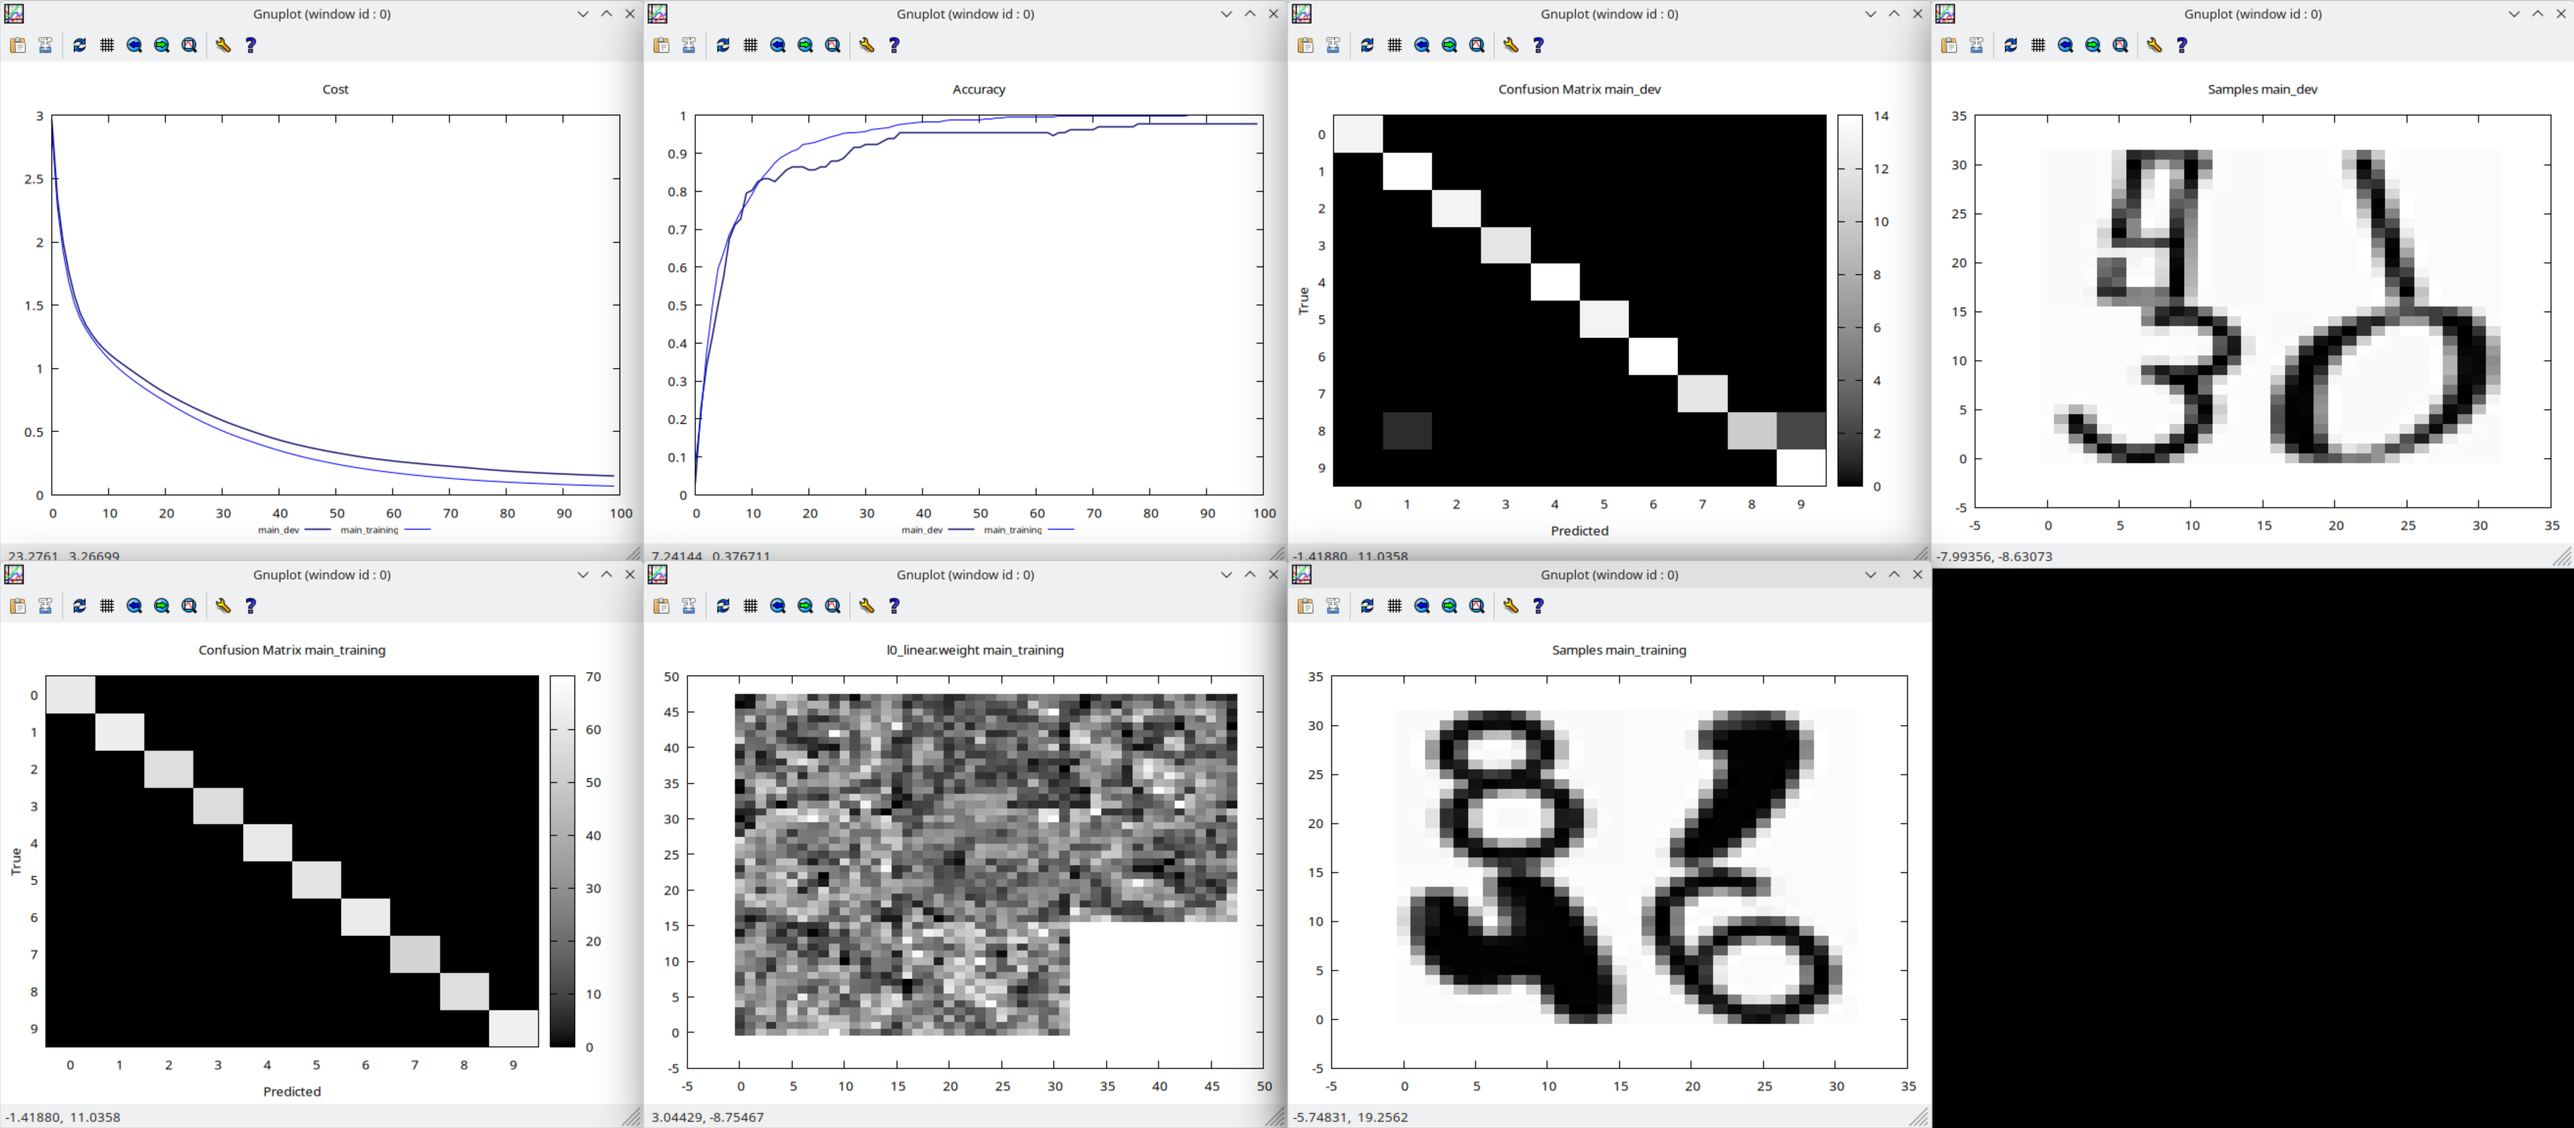
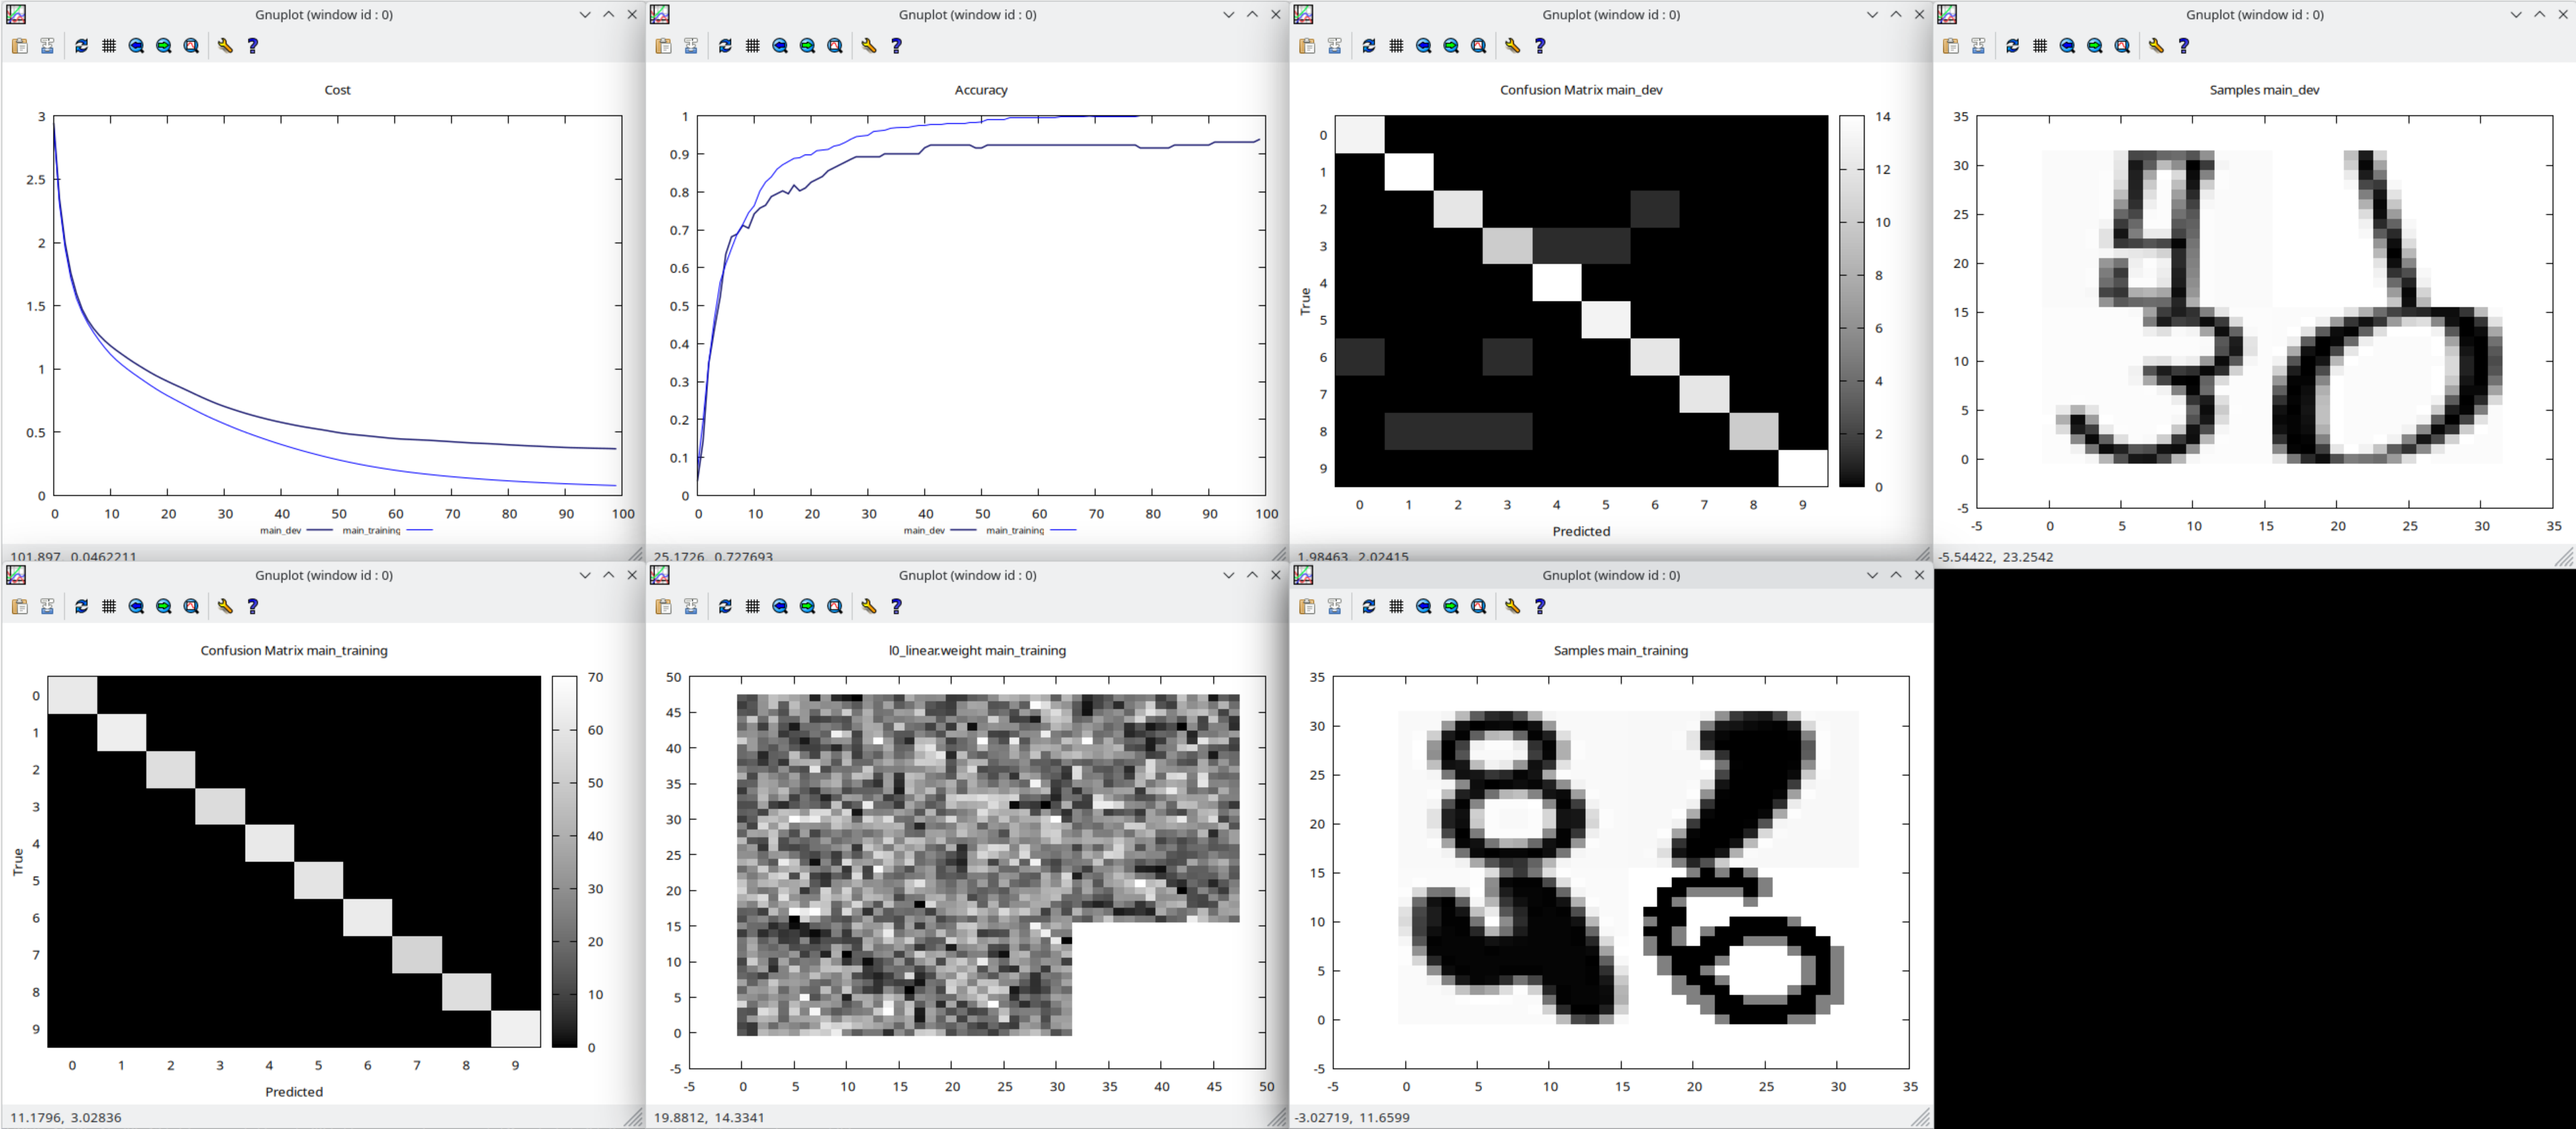
feat: Use Vips images in the Torch pipeline
- Corrected duplicated flags in experiment A and B commands
- Removed unnecessary parameters like --track-layer and --display-samples
- Added --training-times=5 to experiment B for randomness measurement
- Revised experiment C command to include multiple --experiment flags
- Updated experiment A description to note 94% dev accuracy and 6% variance

diff --git a/lib/ruby_neural_nets/data_loaders/torch.x86_64-linux.rb b/lib/ruby_neural_nets/data_loaders/torch.x86_64-linux.rb
@@ -5,14 +5,12 @@ require 'ruby_neural_nets/datasets/cache_memory'
 require 'ruby_neural_nets/datasets/epoch_shuffler'
 require 'ruby_neural_nets/datasets/labeled_torch_images'
 require 'ruby_neural_nets/datasets/minibatch_torch'
-require 'ruby_neural_nets/torchvision/transforms/vips_to_image_magick'
-require 'ruby_neural_nets/torchvision/transforms/image_magick_trim'
-require 'ruby_neural_nets/torchvision/transforms/image_magick_resize'
-require 'ruby_neural_nets/torchvision/transforms/image_magick_grayscale'
-require 'ruby_neural_nets/torchvision/transforms/image_magick_minmax_normalize'
-require 'ruby_neural_nets/torchvision/transforms/image_magick_adaptive_invert'
-require 'ruby_neural_nets/torchvision/transforms/image_magick_to_tensor'
-require 'ruby_neural_nets/torchvision/transforms/remove_alpha'
+require 'ruby_neural_nets/torchvision/transforms/vips_trim'
+require 'ruby_neural_nets/torchvision/transforms/vips_resize'
+require 'ruby_neural_nets/torchvision/transforms/vips_grayscale'
+require 'ruby_neural_nets/torchvision/transforms/vips_minmax_normalize'
+require 'ruby_neural_nets/torchvision/transforms/vips_adaptive_invert'
+require 'ruby_neural_nets/torchvision/transforms/vips_remove_alpha'
 require 'ruby_neural_nets/torchvision/transforms/flatten'
 require 'ruby_neural_nets/torchvision/transforms/to_double'
 
@@ -118,22 +116,16 @@ module RubyNeuralNets
       # * Array: Array of TorchVision transforms for preprocessing
       def preprocessing_transforms
         transforms = [
-          RubyNeuralNets::TorchVision::Transforms::VipsToImageMagick.new
+          RubyNeuralNets::TorchVision::Transforms::VipsRemoveAlpha.new
         ]
-        # Apply trim if specified (works on ImageMagick images)
-        transforms << RubyNeuralNets::TorchVision::Transforms::ImageMagickTrim.new if @trim
-        # Apply resize (works on ImageMagick images, after trim)
-        transforms << RubyNeuralNets::TorchVision::Transforms::ImageMagickResize.new(@resize)
-        # Apply grayscale if specified (works on ImageMagick images)
-        transforms << RubyNeuralNets::TorchVision::Transforms::ImageMagickGrayscale.new if @grayscale
-        # Apply min-max normalization if specified (works on ImageMagick images)
-        transforms << RubyNeuralNets::TorchVision::Transforms::ImageMagickMinmaxNormalize.new if @minmax_normalize
-        # Apply adaptive invert if specified (works on ImageMagick images)
-        transforms << RubyNeuralNets::TorchVision::Transforms::ImageMagickAdaptiveInvert.new if @adaptive_invert
+        transforms << RubyNeuralNets::TorchVision::Transforms::VipsTrim.new if @trim
+        transforms << RubyNeuralNets::TorchVision::Transforms::VipsResize.new(@resize)
+        transforms << RubyNeuralNets::TorchVision::Transforms::VipsGrayscale.new if @grayscale
+        transforms << RubyNeuralNets::TorchVision::Transforms::VipsMinmaxNormalize.new if @minmax_normalize
+        transforms << RubyNeuralNets::TorchVision::Transforms::VipsAdaptiveInvert.new if @adaptive_invert
         # Apply tensor-level transforms
         transforms + [
-          RubyNeuralNets::TorchVision::Transforms::ImageMagickToTensor.new,
-          RubyNeuralNets::TorchVision::Transforms::RemoveAlpha.new,
+          ::TorchVision::Transforms::ToTensor.new,
           RubyNeuralNets::TorchVision::Transforms::Flatten.new,
           RubyNeuralNets::TorchVision::Transforms::ToDouble.new,
         ]

diff --git a/lib/ruby_neural_nets/transform_helpers/vips.rb b/lib/ruby_neural_nets/transform_helpers/vips.rb
@@ -12,7 +12,7 @@ module RubyNeuralNets
       # * Vips::Image: Resized image or original if no resize needed
       def self.resize(image, target_width, target_height)
         if image.width != target_width || image.height != target_height
-          image.resize(target_width.to_f / image.width, vscale: target_height.to_f / image.height)
+          image.resize(target_width.to_f / image.width, vscale: target_height.to_f / image.height, kernel: :mitchell)
         else
           image
         end
@@ -38,7 +38,7 @@ module RubyNeuralNets
         # Store original aspect ratio
         original_aspect_ratio = image.width.to_f / image.height
         # Find bounding box of non-background pixels
-        left, top, width, height = image.find_trim(background: image.getpoint(0, 0))
+        left, top, width, height = image.find_trim(background: image.getpoint(0, 0)[0..2])
 
         # Calculate new dimensions to restore aspect ratio
         trimmed_width = width
@@ -127,9 +127,8 @@ module RubyNeuralNets
       def self.adaptive_invert(image)
         # Get top left pixel value (assuming RGB, take average)
         top_left = image.getpoint(0, 0)
-        intensity = top_left.inject(:+).to_f / top_left.size
         # Invert if intensity is in lower half range (normalized 0-1)
-        intensity < 128 ? -image + 255 : image
+        top_left.inject(:+).to_f / top_left.size < 128 ? (-image + 255).scaleimage : image
       end
 
       # Apply min-max normalization to the image
@@ -148,7 +147,18 @@ module RubyNeuralNets
             # If all pixels are the same, set to 127.5 (midpoint)
             max_val > min_val ? ((band - min_val) * 255) / (max_val - min_val) : band * 0 + 127
           end
-        )
+        ).scaleimage
+      end
+
+      # Remove alpha channel from Vips image
+      #
+      # Parameters::
+      # * *image* (Vips::Image): Input image that may have alpha channel
+      # Result::
+      # * Vips::Image: Image with alpha channel removed if present (4 bands -> 3 bands)
+      def self.remove_alpha(image)
+        # Remove alpha channel if present (4 bands -> 3 bands)
+        image.bands == 4 ? image.extract_band(0, n: 3) : image
       end
 
     end

diff --git a/lib/ruby_neural_nets/datasets/labeled_torch_images.rb b/lib/ruby_neural_nets/datasets/labeled_torch_images.rb
@@ -1,6 +1,8 @@
 require 'ruby_neural_nets/datasets/file_to_vips'
 require 'ruby_neural_nets/datasets/wrapper'
 require 'ruby_neural_nets/torch/sample_folder_dataset'
+require 'ruby_neural_nets/torchvision/transforms/image_magick_grayscale'
+require 'ruby_neural_nets/torchvision/transforms/image_magick_resize'
 
 module RubyNeuralNets
 
@@ -45,10 +47,12 @@ module RubyNeuralNets
           case transform
           when ::TorchVision::Transforms::Resize
             stats[:cols], stats[:rows] = transform.instance_variable_get(:@size)
-          when TorchVision::Transforms::ImageMagickResize
+          when TorchVision::Transforms::ImageMagickResize, TorchVision::Transforms::VipsResize
             stats[:cols], stats[:rows] = transform.size
-          when TorchVision::Transforms::ImageMagickGrayscale
+          when TorchVision::Transforms::ImageMagickGrayscale, TorchVision::Transforms::VipsGrayscale
             stats[:channels] = 1
+          when TorchVision::Transforms::VipsRemoveAlpha
+            stats[:channels] -= 1
           end
         end
         stats

diff --git a/lib/ruby_neural_nets/torchvision/transforms/vips_resize.rb b/lib/ruby_neural_nets/torchvision/transforms/vips_resize.rb
@@ -1,0 +1,24 @@
+require 'ruby_neural_nets/transform_helpers/vips'
+
+module RubyNeuralNets
+  module TorchVision
+    module Transforms
+      class VipsResize < ::Torch::NN::Module
+
+        # Get the size for resize
+        #   [width, height]
+        attr_reader :size
+
+        def initialize(size)
+          @size = size
+        end
+
+        def forward(image)
+          # Apply resize transformation to Vips image using our helper
+          TransformHelpers::Vips.resize(image, *@size)
+        end
+
+      end
+    end
+  end
+end

diff --git a/lib/ruby_neural_nets/datasets/vips_remove_alpha.rb b/lib/ruby_neural_nets/datasets/vips_remove_alpha.rb
@@ -1,4 +1,5 @@
 require 'ruby_neural_nets/datasets/wrapper'
+require 'ruby_neural_nets/transform_helpers/vips'
 
 module RubyNeuralNets
 
@@ -18,7 +19,7 @@ module RubyNeuralNets
       # * Object: The element Y of the dataset
       def [](index)
         image, y = @dataset[index]
-        [image.bands == 4 ? image.extract_band(0, n: 3) : image, y]
+        [TransformHelpers::Vips.remove_alpha(image), y]
       end
 
       # Get some images stats.

diff --git a/lib/ruby_neural_nets/torchvision/transforms/vips_adaptive_invert.rb b/lib/ruby_neural_nets/torchvision/transforms/vips_adaptive_invert.rb
@@ -1,0 +1,16 @@
+require 'ruby_neural_nets/transform_helpers/vips'
+
+module RubyNeuralNets
+  module TorchVision
+    module Transforms
+      class VipsAdaptiveInvert < ::Torch::NN::Module
+
+        def forward(image)
+          # Apply adaptive invert transformation to Vips image
+          TransformHelpers::Vips.adaptive_invert(image)
+        end
+
+      end
+    end
+  end
+end

diff --git a/lib/ruby_neural_nets/torchvision/transforms/vips_minmax_normalize.rb b/lib/ruby_neural_nets/torchvision/transforms/vips_minmax_normalize.rb
@@ -1,0 +1,16 @@
+require 'ruby_neural_nets/transform_helpers/vips'
+
+module RubyNeuralNets
+  module TorchVision
+    module Transforms
+      class VipsMinmaxNormalize < ::Torch::NN::Module
+
+        def forward(image)
+          # Apply min-max normalization to Vips image
+          TransformHelpers::Vips.minmax_normalize(image)
+        end
+
+      end
+    end
+  end
+end

diff --git a/lib/ruby_neural_nets/torchvision/transforms/vips_remove_alpha.rb b/lib/ruby_neural_nets/torchvision/transforms/vips_remove_alpha.rb
@@ -1,0 +1,16 @@
+require 'ruby_neural_nets/transform_helpers/vips'
+
+module RubyNeuralNets
+  module TorchVision
+    module Transforms
+      class VipsRemoveAlpha < ::Torch::NN::Module
+
+        def forward(image)
+          # Apply alpha channel removal to Vips image
+          TransformHelpers::Vips.remove_alpha(image)
+        end
+
+      end
+    end
+  end
+end

diff --git a/lib/ruby_neural_nets/torchvision/transforms/vips_grayscale.rb b/lib/ruby_neural_nets/torchvision/transforms/vips_grayscale.rb
@@ -1,0 +1,16 @@
+require 'ruby_neural_nets/transform_helpers/vips'
+
+module RubyNeuralNets
+  module TorchVision
+    module Transforms
+      class VipsGrayscale < ::Torch::NN::Module
+
+        def forward(image)
+          # Apply grayscale transformation to Vips image
+          TransformHelpers::Vips.grayscale(image)
+        end
+
+      end
+    end
+  end
+end

diff --git a/lib/ruby_neural_nets/torchvision/transforms/vips_trim.rb b/lib/ruby_neural_nets/torchvision/transforms/vips_trim.rb
@@ -1,0 +1,16 @@
+require 'ruby_neural_nets/transform_helpers/vips'
+
+module RubyNeuralNets
+  module TorchVision
+    module Transforms
+      class VipsTrim < ::Torch::NN::Module
+
+        def forward(image)
+          # Apply trim transformation to Vips image
+          TransformHelpers::Vips.trim(image)
+        end
+
+      end
+    end
+  end
+end

diff --git a/README.md b/README.md
@@ -727,12 +727,12 @@ Analysis: Regularization effect of weights decay seems limited. Best value seems
 #### Experiment [A]: Same parameters as with Numo implementation
 
 ```bash
-bundle exec ruby ./bin/run -dataset=numbers --accuracy=ClassesTorch --model=NLayersTorch --optimizer=AdamTorch --loss=CrossEntropyTorch --gradient-checks=off --data-loader=Torch --instability-checks=off --gradient-checks=off --grayscale=true --minmax-normalize=true --adaptive-invert=true --trim=true --resize=16,16 --noise-intensity=0 --rot-angle=0 --nbr-clones=1 --layers=16 --max-minibatch-size=100000 --learning-rate=1e-2 --dropout=0 --weight-decay=0.00 --display-samples=4 --track-layer=l0_linear.weight,8
+bundle exec ruby ./bin/run -dataset=numbers --accuracy=ClassesTorch --model=NLayersTorch --optimizer=AdamTorch --loss=CrossEntropyTorch --gradient-checks=off --data-loader=Torch --instability-checks=off --grayscale=true --minmax-normalize=true --adaptive-invert=true --trim=true --resize=16,16 --noise-intensity=0 --rot-angle=0 --nbr-clones=1 --layers=16 --max-minibatch-size=100000 --learning-rate=1e-2 --dropout=0 --weight-decay=0.00 --display-samples=4 --track-layer=l0_linear.weight,8
 ```
 
 ![A](docs/torch_numbers/a.png)
 
-* We see the same behaviour as with Numo implementation.
+* We see the same behaviour as with Numo implementation, with a smaller dev accuracy (94%), resulting in 6% variance.
 * After using 64 bit floats in Torch, the accuracy goes up much faster.
 * We can check that using ::Torch::NN::LogSoftmax layer with ::Torch::NN::NLLLoss loss is equivalent (but slower) than not using this last layer with ::Torch::NN::CrossEntropyLoss.
 * We see that normalizing inputs between -1 and 1 with mean 0 instead of 0 and 1 with mean 0.5 does not change the preformance of the training.
@@ -740,7 +740,7 @@ bundle exec ruby ./bin/run -dataset=numbers --accuracy=ClassesTorch --model=NLay
 #### Experiment [B]: Measuring model randomness effect
 
 ```bash
-bundle exec ruby bin/run --dataset=numbers --accuracy=ClassesTorch --model=NLayersTorch --optimizer=AdamTorch --loss=CrossEntropyTorch --gradient-checks=off --data-loader=Torch --instability-checks=off --gradient-checks=off --grayscale=true --minmax-normalize=true --adaptive-invert=true --trim=true --resize=16,16 --noise-intensity=0 --rot-angle=0 --nbr-clones=1 --layers=16 --max-minibatch-size=100000 --learning-rate=1e-2 --dropout=0 --weight-decay=0.00 --training-times=5
+bundle exec ruby bin/run --dataset=numbers --accuracy=ClassesTorch --model=NLayersTorch --optimizer=AdamTorch --loss=CrossEntropyTorch --gradient-checks=off --data-loader=Torch --instability-checks=off --grayscale=true --minmax-normalize=true --adaptive-invert=true --trim=true --resize=16,16 --layers=16 --max-minibatch-size=100000 --learning-rate=1e-2 --training-times=5
 ```
 
 ![B](docs/torch_numbers/b.png)
@@ -750,7 +750,7 @@ bundle exec ruby bin/run --dataset=numbers --accuracy=ClassesTorch --model=NLaye
 #### Experiment [C]: Measuring dataset randomness effect
 
 ```bash
-bundle exec ruby bin/run --dataset=numbers --accuracy=ClassesTorch --model=NLayersTorch --optimizer=AdamTorch --loss=CrossEntropyTorch --gradient-checks=off --data-loader=Torch --instability-checks=off --gradient-checks=off --grayscale=true --minmax-normalize=true --adaptive-invert=true --trim=true --resize=16,16 --noise-intensity=0 --rot-angle=0 --nbr-clones=1 --layers=16 --max-minibatch-size=100000 --learning-rate=1e-2 --dropout=0 --weight-decay=0.00 --training-times=5
+bundle exec ruby bin/run --instability-checks=off --dataset=numbers --accuracy=ClassesTorch --model=NLayersTorch --optimizer=AdamTorch --loss=CrossEntropyTorch --gradient-checks=off --data-loader=Torch --grayscale=true --minmax-normalize=true --adaptive-invert=true --trim=true --resize=16,16 --layers=16 --max-minibatch-size=100000 --learning-rate=1e-2 --experiment --dataset=numbers --accuracy=ClassesTorch --model=NLayersTorch --optimizer=AdamTorch --loss=CrossEntropyTorch --gradient-checks=off --data-loader=Torch --grayscale=true --minmax-normalize=true --adaptive-invert=true --trim=true --resize=16,16 --layers=16 --max-minibatch-size=100000 --learning-rate=1e-2 --experiment --dataset=numbers --accuracy=ClassesTorch --model=NLayersTorch --optimizer=AdamTorch --loss=CrossEntropyTorch --gradient-checks=off --data-loader=Torch --grayscale=true --minmax-normalize=true --adaptive-invert=true --trim=true --resize=16,16 --layers=16 --max-minibatch-size=100000 --learning-rate=1e-2 --experiment --dataset=numbers --accuracy=ClassesTorch --model=NLayersTorch --optimizer=AdamTorch --loss=CrossEntropyTorch --gradient-checks=off --data-loader=Torch --grayscale=true --minmax-normalize=true --adaptive-invert=true --trim=true --resize=16,16 --layers=16 --max-minibatch-size=100000 --learning-rate=1e-2
 ```
 
 ![C](docs/torch_numbers/c.png)
